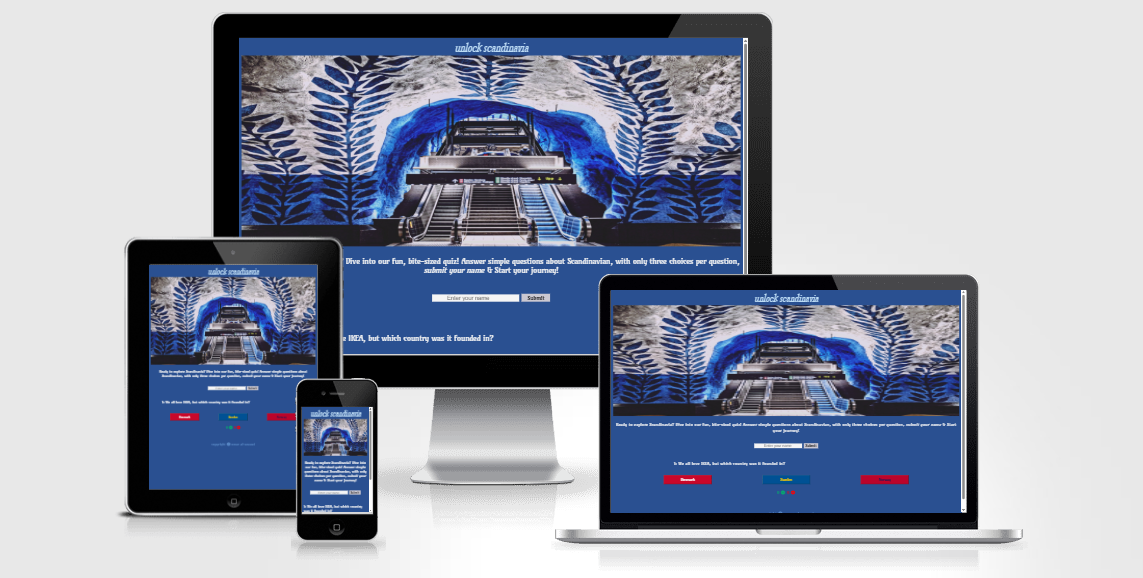
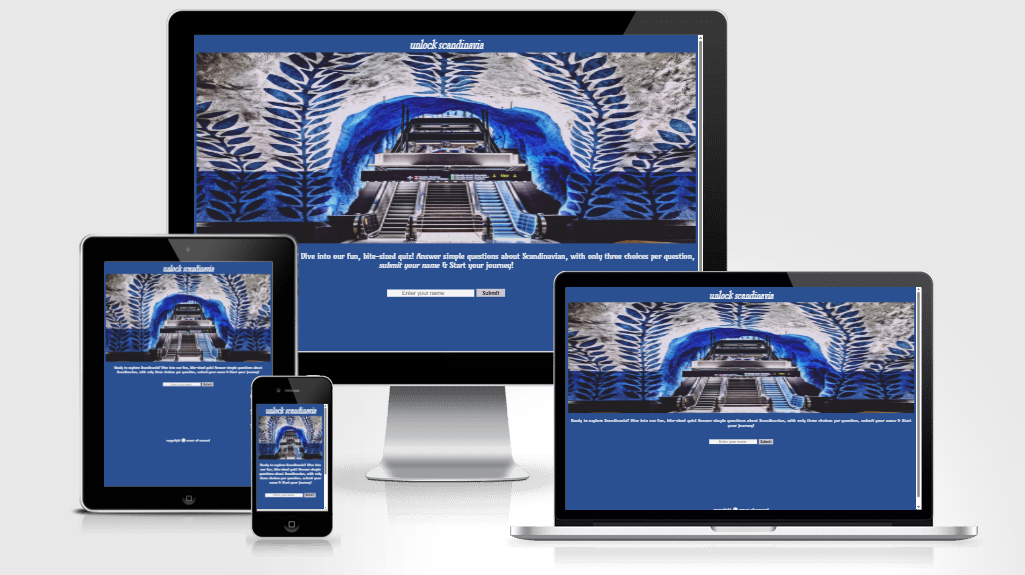
Improve question presentation with horizontal centering

diff --git a/index.html b/index.html
@@ -45,6 +45,7 @@
             <input type="text" name="userName" id="userName" placeholder="         Enter your name" required>
             <button type="submit" id = "btn-message" >Submit</button>
         </form>
+        <br>
         <!-- A welcome message will appear through JavaScript code-->
         <div id="welcomeMessage"></div>
     </div>
@@ -81,4 +82,5 @@
     <!--Fontawesome -->
     <script src="https://kit.fontawesome.com/84c71096f4.js" crossorigin="anonymous"></script>
 </body>
+
 </html>

diff --git a/assets/css/style.css b/assets/css/style.css
@@ -13,6 +13,8 @@ body {
 
 }
 
+
+
 /* Style the heading*/
 
 h1 {
@@ -87,6 +89,8 @@ h1 {
 
 #question {
   height: 10vh;
+  margin-left: auto;
+  margin-right: auto;
 
 }
 
@@ -350,14 +354,8 @@ h1 {
     font-size: 30px;
   }
 
-  #btn-style {
-    display: flex;
-    justify-content: center;
-  }
-
    #question {
-    height: 6vh;
-    width: 1190px;
+    height: 6vh;  
     
   }
 
@@ -366,7 +364,6 @@ h1 {
     height: 2.5em;
     font-weight: bold;
   }
-
 
   #answer1 {
     font-size: 25px;

diff --git a/assets/js/script.js b/assets/js/script.js
@@ -142,7 +142,7 @@ function checkAnswer (selectedAnswer){
  * This function to end the quiz and reset it.
  */
 function endTheGame () {
-    proxy.innerHTML = ` ${correctScoreAmount} out of 10 , That's not a score—it's a 
+    proxy.innerHTML = `You result is ${correctScoreAmount} out of 10 , That's not a score—it's a 
     mystery wrapped in confusion.🎉 Want revenge or just a participation trophy?
     <br>
     <br>
